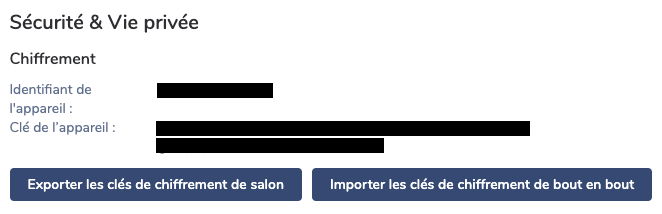
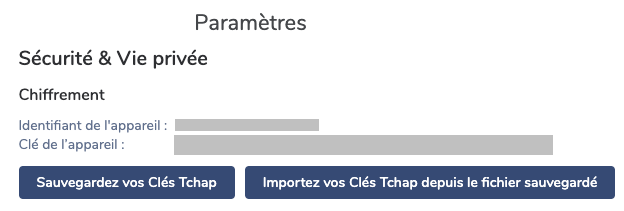
Updated textes and visuals

diff --git a/src/pages/faq/FaqComponent.js b/src/pages/faq/FaqComponent.js
@@ -245,6 +245,41 @@ class FaqComponent extends Component {
 									<div className="tc_text_nl">Votre compte Tchap dépend de votre adresse mail professionnelle. Si vous changez d'adresse mail, vous devrez donc créer un nouveau compte Tchap avec la nouvelle. Le compte précédent sera désactivé. </div>
 									<div className="tc_text_nl">Si votre nouvelle administration n'est pas encore présente sur Tchap, vous pouvez formuler une demande d'ouverture auprès de votre direction informatique. Vous pouvez vérifier la présence de votre administration sur Tchap  <GenericLink className="tc_FaqComponent_link" to={"/#joinUs"}>ici</GenericLink>.</div>
 								</GenericAccordion>
+								<GenericAccordion {...this._generateProps("tcq02_005")}>
+									<title><LinkIcon onClick={this._handleCopyClick} className="tc_FaqComponent_copy_icon" />Comment réinitialiser mon mot de passe ?</title>
+									<div className="tc_text_nl">Pour réinitialiser votre mot de passe Tchap, veuillez suivre minutieusement les étapes décrites <GenericLink className="tc_FaqComponent_link" to={"../public/bonnes_pratiques_reinitialisation_du_mot_de_passe.pdf"}>dans ce guide</GenericLink>.</div>
+								</GenericAccordion>
+								<GenericAccordion {...this._generateProps("tcq02_006")}>
+									<title><LinkIcon onClick={this._handleCopyClick} className="tc_FaqComponent_copy_icon" />Je change de téléphone ou d’ordinateur : que faire ?</title>
+									<div className="tc_text_nl">Si vous vous connectez à Tchap avec un nouvel appareil, celui-ci ne sera pas en possession de vos Clés Tchap. Cela signifie que vous ne pourrez pas lire vos messages antérieurs à votre connexion sur cet appareil.</div>
+									<div className="tc_text_nl">Les messages échangés après votre connexion seront en revanche lisibles.</div>
+									<div className="tc_text_nl"><span className="tc_text_b">Pour rendre possible la lecture de l’historique antérieur à votre connexion, vous devrez récupérer vos clés Tchap depuis un autre appareil sur lequel cet historique est déjà lisible. </span></div>
+									<div className="tc_text_nl">Le partage de clés peut vous être proposé automatiquement lorsque vous ouvrez Tchap sur le second appareil. Dans ce cas, acceptez la demande qui s’affiche en simultané sur les deux appareils et suivez les instructions.</div>
+									<div className="tc_text_nl">Si le partage automatique ne fonctionne pas, vous pouvez également sauvegarder manuellement les clés depuis l’appareil sur lequel tous vos messages sont lisibles, puis importer les clés sur le nouvel appareil.</div>	
+									<div className="tc_text_nl">Voir aussi :</div>
+									<SeeMoreLinks
+										onClick={this._onLocationChange}
+										links={[
+											{ to: "#tcq07_002", text: "Comment sauvegarder manuellement mes Clés Tchap (clés de chiffrement) ?" },
+											{ to: "#tcq07_003", text: "Comment importer manuellement mes Clés Tchap (clés de chiffrement) ?" },
+										]}/>	
+								</GenericAccordion>
+								<GenericAccordion {...this._generateProps("tcq02_007")}>
+									<title><LinkIcon onClick={this._handleCopyClick} className="tc_FaqComponent_copy_icon" />Comment modifier mon nom sur Tchap ? </title>
+									<div className="tc_text_nl">Votre nom d’affichage sur Tchap est automatiquement déduit de votre adresse e-mail, sur la base d’une construction prénom.nom@adresse.fr</div>
+									<div className="tc_text_nl">Pour des raisons de sécurité, il est impossible de le modifier.<br/>Si vous souhaitez changer votre nom d’utilisateur, il vous faudra créer une nouvelle adresse, puis créer un nouveau compte Tchap. </div>
+								</GenericAccordion>
+								<GenericAccordion {...this._generateProps("tcq02_008")}>
+									<title><LinkIcon onClick={this._handleCopyClick} className="tc_FaqComponent_copy_icon" />Pourquoi dois-je activer la conservation des cookies pour Tchap sur mon navigateur web ? </title>
+									<div className="tc_text_nl">Après une nouvelle connexion (lorsque vous entrez votre adresse e-mail professionnelle et votre mot de passe), vous ne pouvez pas lire les messages échangés auparavant.</div>
+									<div className="tc_text_nl">Pour cette raison, il est déconseillé de se déconnecter de Tchap.<br/>Si votre navigateur web provoque une déconnexion automatique de votre session Tchap à chaque fermeture, il est recommandé de changer ce réglage dans les paramètres de votre navigateur en autorisant la conservation des cookies pour  <GenericLink className="tc_FaqComponent_link" to={"https://www.tchap.gouv.fr"}> https://www.tchap.gouv.fr/</GenericLink></div>
+									<div className="tc_text_nl">Voir aussi :</div>
+									<SeeMoreLinks
+										onClick={this._onLocationChange}
+										links={[
+											{ to: "#tcq07_005", text: "Comment faire pour que ma session sur Tchap web ne se déconnecte pas automatiquement ?" },
+										]}/>
+								</GenericAccordion>
 
 								<div id="tcq03_000" className="tc_FaqComponent_section">Echanger sur Tchap</div>
 								<GenericAccordion {...this._generateProps("tcq03_001")}>
@@ -332,18 +367,20 @@ class FaqComponent extends Component {
 										<li>
 											<Grid container className="tc_FaqComponent_grid">
 												<Grid item xl={6}>
-													<div className="tc_text_nl"><span className="tc_text_b">Sur mobile</span>, rendez-vous dans l'onglet des "Messages directs" et cliquez sur le bouton “💬+”</div>
+													<div className="tc_text_nl"><span className="tc_text_b">Sur mobile</span>, rendez-vous dans le menu latéral et cliquez sur “Inviter à rejoindre Tchap”.</div>
 													<img src={require("images/faq/create_ext_mobile.jpg")} width="500" className="tc_FaqComponent_wimg_mobile" alt="Création 1:1 externe mobile"/>
 												</Grid>
 												<Grid item xl={6}>
-													<div className="tc_text_nl"><span className="tc_text_b">Sur le web</span>, cliquez sur le bouton “+” de la section “messages directs”.</div>
+													<div className="tc_text_nl"><span className="tc_text_b">Sur le web</span>, cliquez sur le bouton “+” de la section “messages directs”. Dans la barre de saisie, renseignez l'adresse mail professionnelle de la personne que vous voulez inviter et validez.</div>
 													<img src={require("images/pem/create_dm_web.png")} className="tc_FaqComponent_wimg_mobile" alt="Création 1:1 externe web"/>
 												</Grid>
 											</Grid>
 										</li>
-										<li>Dans la barre de recherche, renseignez l'adresse mail professionnelle de la personne que vous voulez inviter et validez.</li>
 										<li>Une invitation lui est automatiquement envoyée par e-mail. Vous serez notifié lorsque cette personne aura créé son compte, et pourrez ensuite commencer à échanger.</li>
 									</ul>
+									<div className="tc_text_nl"><span className="tc_text_b">Pour inviter un partenaire externe à rejoindre un salon privé</span>, assurez-vous d’abord que ce salon privé est bien “ouvert aux externes” (depuis les paramètres du salon). Si vous en êtes administrateur ou modérateur, vous pourrez ensuite inviter la personne en renseignant son adresse e-mail depuis l’interface de gestion des membres du salon.</div>
+									<div className="tc_text_nl"><span className="tc_text_b">À noter:</span> les partenaires externes n’ont pas accès aux salons forums.</div>
+
 									<SeeMoreLinks
 										onClick={this._onLocationChange}
 										links={[
@@ -399,7 +436,7 @@ class FaqComponent extends Component {
 										onClick={this._onLocationChange}
 										links={[
 											{ to: "#tcq03_008", text: "Comment signaler un contenu inapproprié sur Tchap ?" },
-										        { to: "#tcq04_0021", text: "Quelles sont les responsabilités de l’administrateur d’un salon ?" },
+										    { to: "#tcq04_0021", text: "Quelles sont les responsabilités de l’administrateur d’un salon ?" },
 										]}/>
 								</GenericAccordion>
 								<GenericAccordion {...this._generateProps("tcq03_008")}>
@@ -441,6 +478,23 @@ class FaqComponent extends Component {
 								<div id="tcq04_000" className="tc_FaqComponent_section">Créer et administrer un salon</div>
 								<GenericAccordion {...this._generateProps("tcq04_001")}>
 									<title><LinkIcon onClick={this._handleCopyClick} className="tc_FaqComponent_copy_icon" />Comment créer un salon ?</title>
+									
+
+									<ul className="tc_list_decimal">
+										<li>
+											<Grid container className="tc_FaqComponent_grid">
+												<Grid item xl={6}>
+													<div className="tc_text_nl"><span className="tc_text_b">Sur mobile</span>, rendez-vous dans l’onglet des salons, cliquez sur le bouton “#+” et sélectionnez l’option “Nouveau salon/forum”.</div>
+													<img src={require("images/pem/create_room_mobile.png")} className="tc_FaqComponent_wimg_mobile" alt="Création 1:1 mobile" width="485" />
+												</Grid>
+												<Grid item xl={6}>
+													<div className="tc_text_nl"><span className="tc_text_b">Sur web</span>, cliquez sur le bouton “+” de la section “Salons” et sélectionnez “Créer un nouveau salon”.</div>
+													<img src={require("images/pem/create_dm_web.png")} className="tc_FaqComponent_wimg_mobile" alt="Création 1:1 web"/>
+												</Grid>
+											</Grid>
+										</li>
+									</ul>								
+
 									<Grid container className="tc_FaqComponent_grid">
 										<Grid item xl={2}>
 											<img src={require("images/pem/avatar_private.png")} alt="Salon Privé"/>
@@ -466,7 +520,7 @@ class FaqComponent extends Component {
 											</ul>
 										</Grid>
 									</Grid>
-									<div className="tc_text_nl">Une fois que votre salon est créé, vous en êtes l'administrateur par défaut.</div>
+									<div className="tc_text_nl"><span className="tc_text_b">Une fois que votre salon est créé, vous en êtes l'administrateur par défaut.</span></div>
 									<SeeMoreLinks
 										onClick={this._onLocationChange}
 										links={[
@@ -492,7 +546,12 @@ class FaqComponent extends Component {
 										onClick={this._onLocationChange}
 										links={[
 											{ to: "#tcq04_004", text: "Pourquoi est-il indispensable de nommer plusieurs administrateurs par salon et comment procéder ?" },
+											{ to: "#tcq04_0021", text: "Quelles sont les responsabilités de l’administrateur d’un salon ? " },
 										]}/>
+									
+
+
+
 								</GenericAccordion>
 								<GenericAccordion {...this._generateProps("tcq04_0021")}>
 									<title><LinkIcon onClick={this._handleCopyClick} className="tc_FaqComponent_copy_icon" />Quelles sont les responsabilités de l’administrateur d’un salon ?</title>
@@ -725,6 +784,28 @@ class FaqComponent extends Component {
 												{ to: "#tcq08_001", text: "Comment déverrouiller mes messages si j'ai un autre appareil connecté à Tchap ?" },
 												{ to: "#tcq08_002", text: "Comment déverrouiller mes messages si j'ai préalablement sauvegardé mes Clés Tchap (clés de chiffrement) ?" },
 												{ to: "#tcq08_003", text: "Comment déverrouiller mes messages si je ne suis pas connecté à Tchap sur un autre appareil et que je n'ai pas préalablement sauvegardé mes Clés Tchap (clés de chiffrement) ?" },
+											]}/>
+									</div>
+								</GenericAccordion>
+								<GenericAccordion {...this._generateProps("tcq07_005")}>
+									<title><LinkIcon onClick={this._handleCopyClick} className="tc_FaqComponent_copy_icon" />Comment faire en sorte que ma session sur Tchap web ne se déconnecte pas automatiquement ? </title>
+									<div className="tc_text_nl">
+										<div>Lorsque vous utilisez la version web de Tchap, il est possible que votre session Tchap se déconnecte à chaque fermeture de votre navigateur, entrainant une perte vos clés Tchap (clés de chiffrement).<div>
+										<div>Pour palier à cette difficulté, vous devez vous rendre dans les paramètres de votre navigateur et autoriser la conservation des cookies pour la page https://www.tchap.gouv.fr/.<div>
+
+										<div>La marche à suivre dépend de votre navigateur :</div>
+										<ul>
+											<li><GenericLink onClick={this._onLocationChange} to="https://support.mozilla.org/fr/kb/api-stockage-sites-web-enregistrer-fichiers#w_autoriser-ou-bloquer-les-sites-web-de-stocker-des-informations">Firefox</GenericLink> (section Autoriser ou bloquer les sites web de stocker des informations)</li>
+											<li><GenericLink onClick={this._onLocationChange} to="https://support.google.com/chrome/answer/95647#zippy=%2Cautoriser-ou-bloquer-les-cookies-dun-site-sp%C3%A9cifique">Chrome</GenericLink> (section Autoriser ou bloquer les cookies d'un site spécifique)</li>
+											<li>Edge : Paramètres et plus… > Paramètres > Autorisations du site > cookies et données de site</li>
+										</ul>
+										<div>A noter : il est possible qu’une intervention de vos services informatiques soit nécéssaire pour modifier ces paramètres.</div>
+										<div>Voici aussi :</div>
+										<SeeMoreLinks
+											onClick={this._onLocationChange}
+											links={[
+												{ to: "#tcq02_008", text: "Pourquoi dois-je activer la conservation des cookies pour Tchap sur mon navigateur ? 
+												" },
 											]}/>
 									</div>
 								</GenericAccordion>
@@ -967,6 +1048,26 @@ class FaqComponent extends Component {
                                                                         <div className="tc_text_nl">Si la difficulté persiste, vous pouvez contacter l’équipe de Tchap par mail à :</div> 
                                                                         <div className="tc_text_nl"><GenericLink className="tc_FaqComponent_link" to={"mailto:" + t("links.support")}>{t("links.support")}</GenericLink></div>
                                                                                                                      
+								</GenericAccordion>
+								<GenericAccordion {...this._generateProps("tcq02_004")}>
+									<title><LinkIcon onClick={this._handleCopyClick} className="tc_FaqComponent_copy_icon" />Un partenaire externe ne parvient pas à créer son compte : que faire ?</title>
+									<ul>
+										<li>Vérifier que l’e-mail d’invitation n’a pas été filtré dans les spams du partenaire externe</li>
+										<li>Vérifier que le partenaire externe utilise bien l’adresse e-mail qui a été renseignée dans l’invitation pour créer son compte</li>
+										<li>Vérifier que l’adresse e-mail saisie au moment de l’invitation ne contient pas de coquille</li>
+										<li>Vérifier que l’adresse e-mail a été saisie sans majuscules : Tchap étant sensible à la casse, il est important que l’adresse e-mail soit renseignée sans majuscules dans l’invitation et au moment de l’inscription.</li>
+									</ul>
+									<div className="tc_text_nl">Si l’adresse e-mail saisie au moment de l’invitation contient une erreur ou des majuscules, il sera nécessaire de recommencer l’invitation.</div>
+								</GenericAccordion>
+								<GenericAccordion {...this._generateProps("tcq02_004")}>
+									<title><LinkIcon onClick={this._handleCopyClick} className="tc_FaqComponent_copy_icon" />Je ne parviens pas à lire les messages provenant d’une personne en particulier</title>
+									<div className="tc_text_nl">Il peut arriver que les messages d’une personne spécifique deviennent illisibles. Il s’agit d’une anomalie qui peut être résolue de la façon suivante : </div>									<ul>
+										<li>Rendez-vous dans les paramètres de Tchap </li>
+										<li>Si vous êtes sur le web, allez dans la section “Aide et à propos”.<br/>
+											Si vous êtes sur mobile, allez dans la section “Avancé”.</li>
+										<li>Cliquez sur “Vider le cache”</li>
+										<li>Demandez à la personne dont vous ne pouvez pas lire les messages de faire la même manipulation</li>
+									</ul>
 								</GenericAccordion>
 							</Grid>
 						</Grid>

diff --git a/res/css/themes/style.scss b/res/css/themes/style.scss
@@ -65,6 +65,7 @@ $font-size-08: 0.8em;
 
 .tc_text_nl {
   margin-bottom: 6px;
+  padding-right: 6px;
 }
 
 .tc_link {
